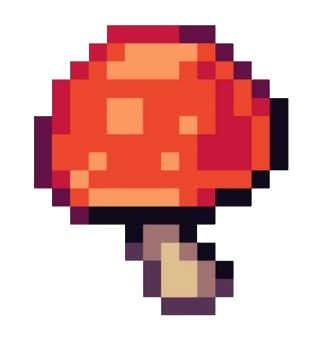
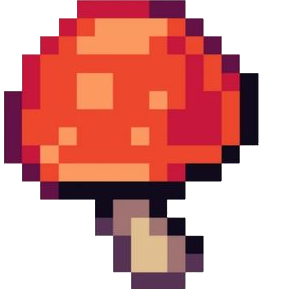
Mushroom PNG are added, fould field is pink and decaying

diff --git a/ants_sim.py b/ants_sim.py
@@ -31,15 +31,21 @@ background_image = pygame.transform.scale(background_image, (SCREEN_WIDTH, SCREE
 # Smell Field of the Food Sources
 
 # Constants
-SMELL_STRENGHT = 50 # The Strength of the emmiting food field
+SMELL_STRENGHT = 80 # The Strength of the emmiting food field
 FOOD_SMELL_RADIUS = 100  # Cut off radius for the smell field
+
+
 
 # Load the mushroom image
 mushroom_image = pygame.image.load('mushroom1.png')
-# Define the crop area (x, y, width, height)
-crop_rect = pygame.Rect(0, 0, 32, 32)  # Adjust these values as needed
-# Crop the image
-cropped_mushroom_image = mushroom_image.subsurface(crop_rect)
+
+# Define the target size for the cropped image
+target_size = (32, 32)  # Width, Height
+
+# Scale down the image to the target size
+cropped_mushroom_image = pygame.transform.scale(mushroom_image, target_size)
+
+
 
 # Initialize Smell Grid grid
 smell_grid = np.zeros((SCREEN_WIDTH // GRID_SIZE, SCREEN_HEIGHT // GRID_SIZE))
@@ -65,7 +71,7 @@ def draw_smell():
         for y in range(smell_grid.shape[1]):
             intensity = smell_grid[x, y]
             if intensity > 0:  # Only draw if intensity is greater than 0
-                color = (104,114,51, int(255 * intensity))  # Calculate alpha based on intensity
+                color = (252,89,163, int(255 * intensity))  # Calculate alpha based on intensity and set color
                 temp_surface = pygame.Surface((GRID_SIZE, GRID_SIZE), pygame.SRCALPHA)
                 temp_surface.fill(color)
                 screen.blit(temp_surface, (x * GRID_SIZE, y * GRID_SIZE))
@@ -210,9 +216,12 @@ while running:
         ant.draw()
         ant.release_pheremones()
 
-    # Draw food
-    for food in food_positions:
-        screen.blit(cropped_mushroom_image, (food[0] - cropped_mushroom_image.get_width() // 2, food[1] - cropped_mushroom_image.get_height() // 2))
+    # In your main loop where you draw food
+        for food in food_positions:
+            # Calculate the position to center the image in x and align the top edge in y
+            x_position = food[0] - cropped_mushroom_image.get_width() // 2
+            y_position = food[1] - cropped_mushroom_image.get_height()  # Align top edge to the center of the y-coordinate
+            screen.blit(cropped_mushroom_image, (x_position, y_position))
 
     # Update display
     pygame.display.flip()
